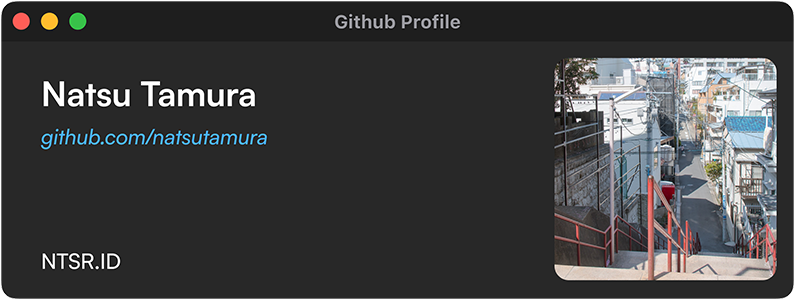
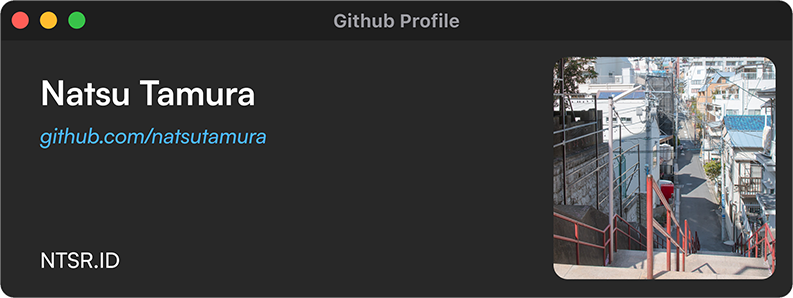
update

diff --git a/README.md b/README.md
@@ -1,16 +1,16 @@
 
 ### Halo! Saya Ray 👋
-Bukan Developer, hanya seorang desainer grafis.
+Bukan Developer, hanya seorang desainer grafis.                                                               
 [Kunjungi web saya disini](https://ntsr.site)
 
-![cover](covermini.png)
+![cover](cover.png)
 
 Aplikasi yang saya gunakan:
  - Adobe Photoshop
  - Figma
  - Illustrator (masih belajar 😁)
  - Adobe XD (masih belajar juga 😆)
- 
+
 <!--![achievement](https://minecraftskinstealer.com/achievement/8/Selamat%20Datang!/natsutamura%20Github)
 -->
 <!--
